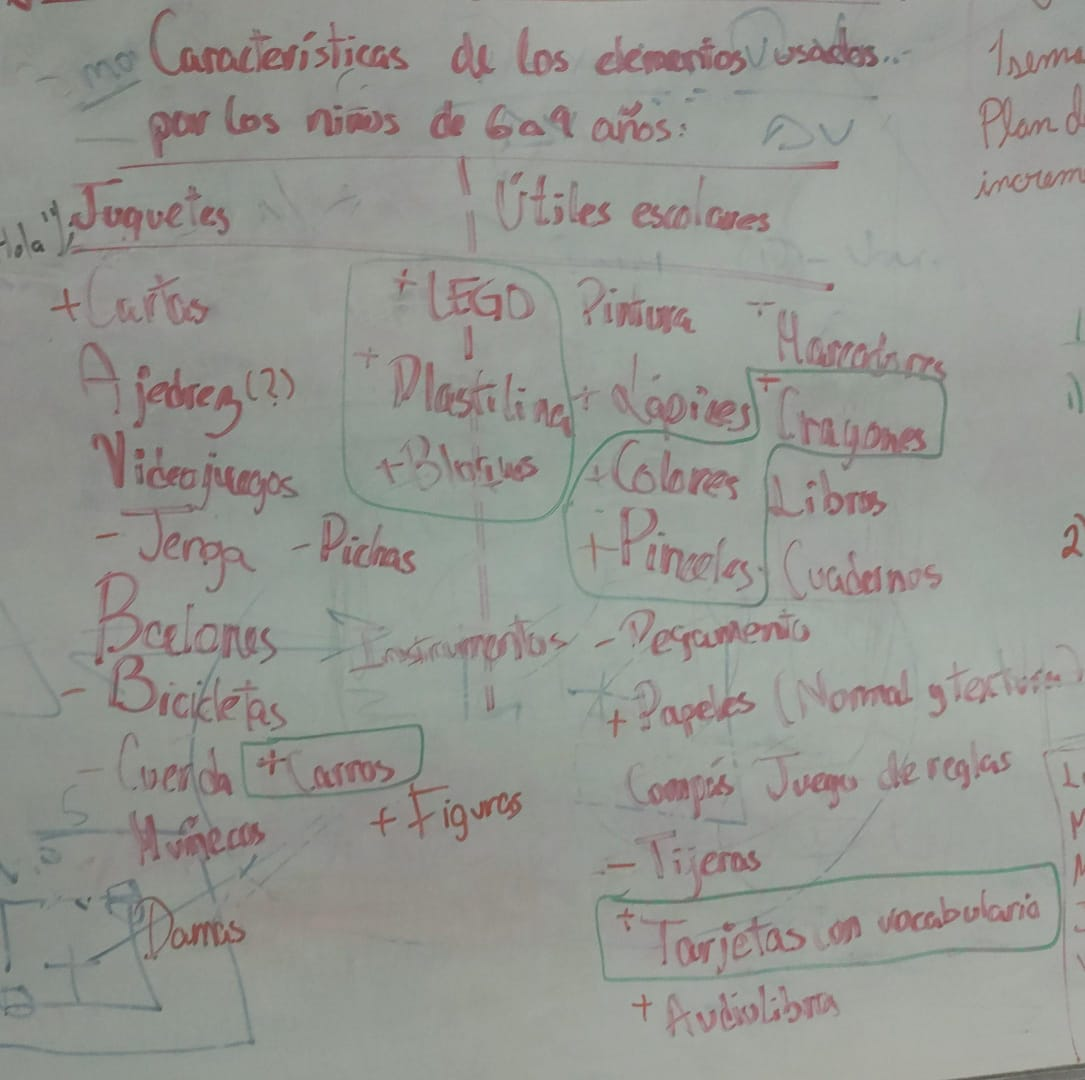
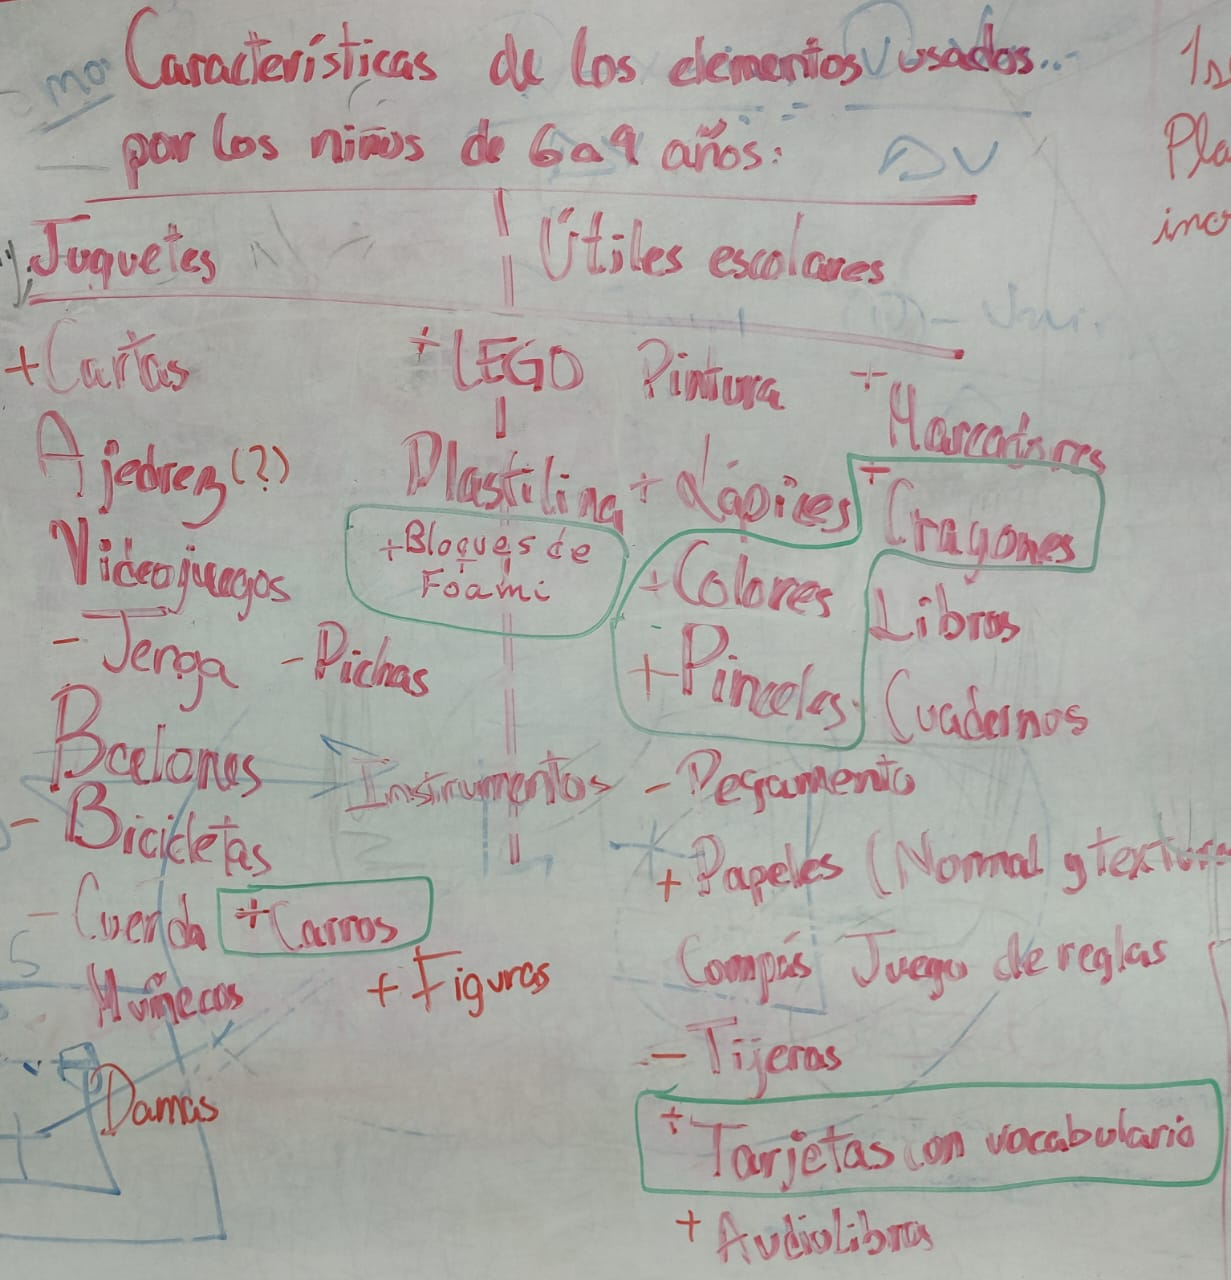
feat: update legend descriptions for clarity and modify image for elements used in education

diff --git a/wip/elements-children-use-for-education/README.md b/wip/elements-children-use-for-education/README.md
@@ -2,5 +2,5 @@
 - Elemento sin marca: Posible opción a usar
 - Elemento con +: Muy útil, se debería usar
 - Elemento con -: Opción posible, pero se debería evitar su uso
-- Elemento encerrado en recuadro/círculo verde: Elemento que se usará en el diseño preliminar
-- Múltiples elementos encerrados en un mismo recuadro/círculo verde: Elementos que pueden usarse en el diseño preliminar cumpliendo un mismo propósito, por lo que se debería elegir uno de ellos o justificar el uso de varios, a modo de evitar duplicidades innecesarias
+- Elemento encerrado en recuadro/círculo verde: Elemento que muy probablemente se usará en el diseño preliminar
+- Múltiples elementos encerrados en un mismo recuadro/círculo verde: Elementos que muy probablemente pueden usarse en el diseño preliminar cumpliendo un mismo propósito, por lo que se debería elegir uno de ellos o justificar el uso de varios, a modo de evitar duplicidades innecesarias
